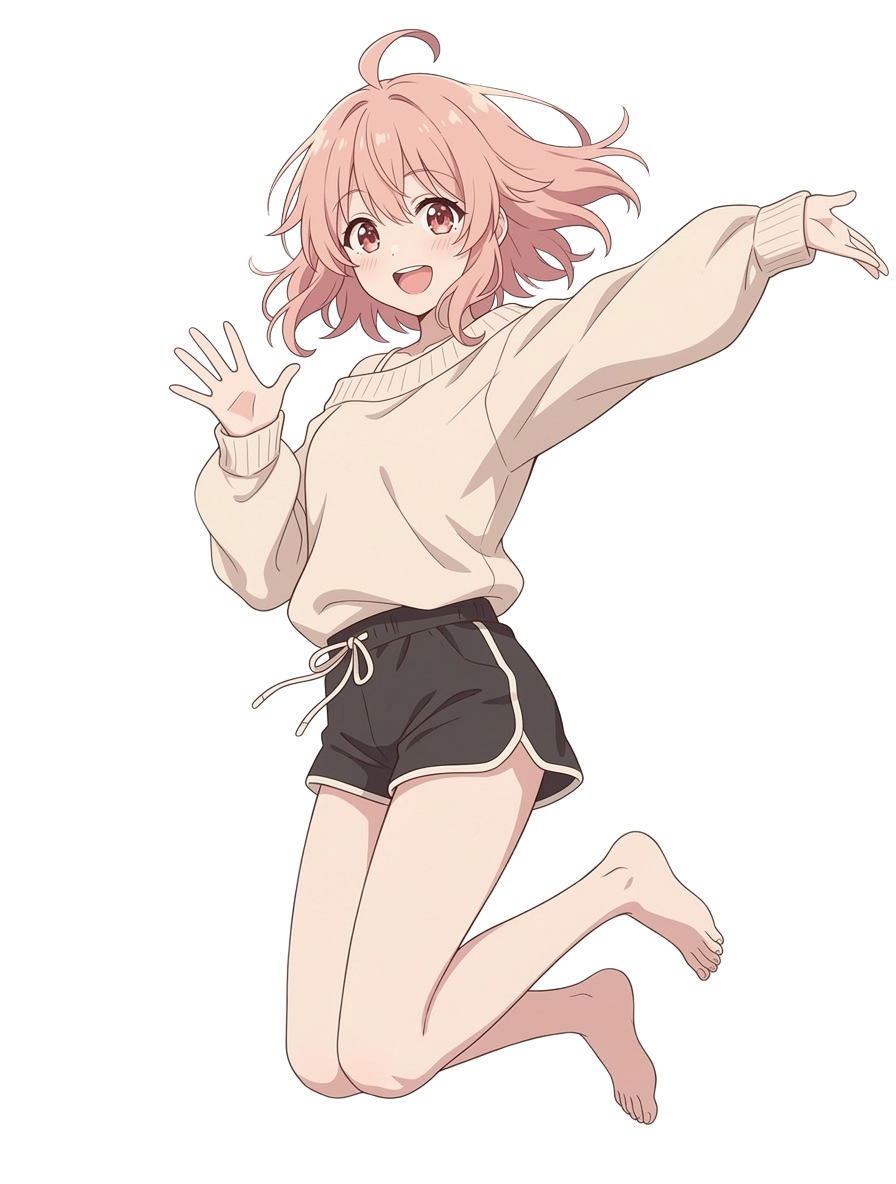
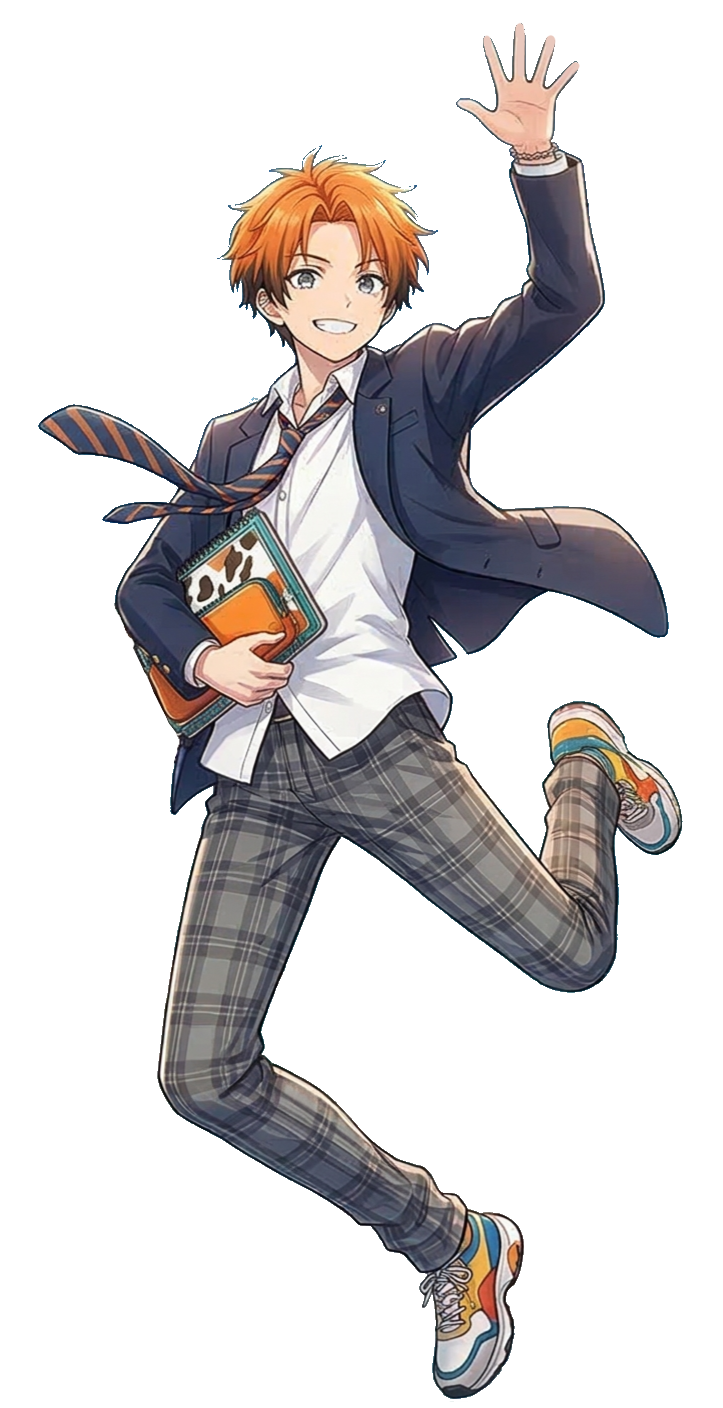
つらたｎ

diff --git a/assets/css/components.css b/assets/css/components.css
@@ -83,12 +83,10 @@
 
 .main-visual__character {
     position: absolute;
-    top: 60%;
-    transform: translateY(-50%);
 }
 
 .main-visual__character img {
-    height: 105vh;
+    height: 55vh;
     min-height: 400px;
     max-inline-size: none;
     object-fit: cover;
@@ -96,12 +94,24 @@
 
 /* PC: 左右配置 */
 .main-visual__character--left {
-    left: 5%;
+    left: 12%;
+    top: 53%;                    
+    transform: translateY(-50%);                                                                                                                                                                           
 }
 
 .main-visual__character--right {
-    right: -12%;
+    left: 30%;
+    top: 40%;
+    transform: translateY(-50%);
 }
+
+.main-visual__character--left img {
+    height: 60vh;
+}   
+.main-visual__character--right img {
+    height: 85vh;
+}
+
 
 /* モバイル: 左のみ表示（SP画像1枚） */
 @media (width < 768px) {
@@ -109,6 +119,10 @@
         left: 50%;
         right: auto;
         transform: translate(-50%, -50%);
+    }
+
+    .main-visual__character img {
+        height: 105vh;
     }
 
     .main-visual__character--right {
